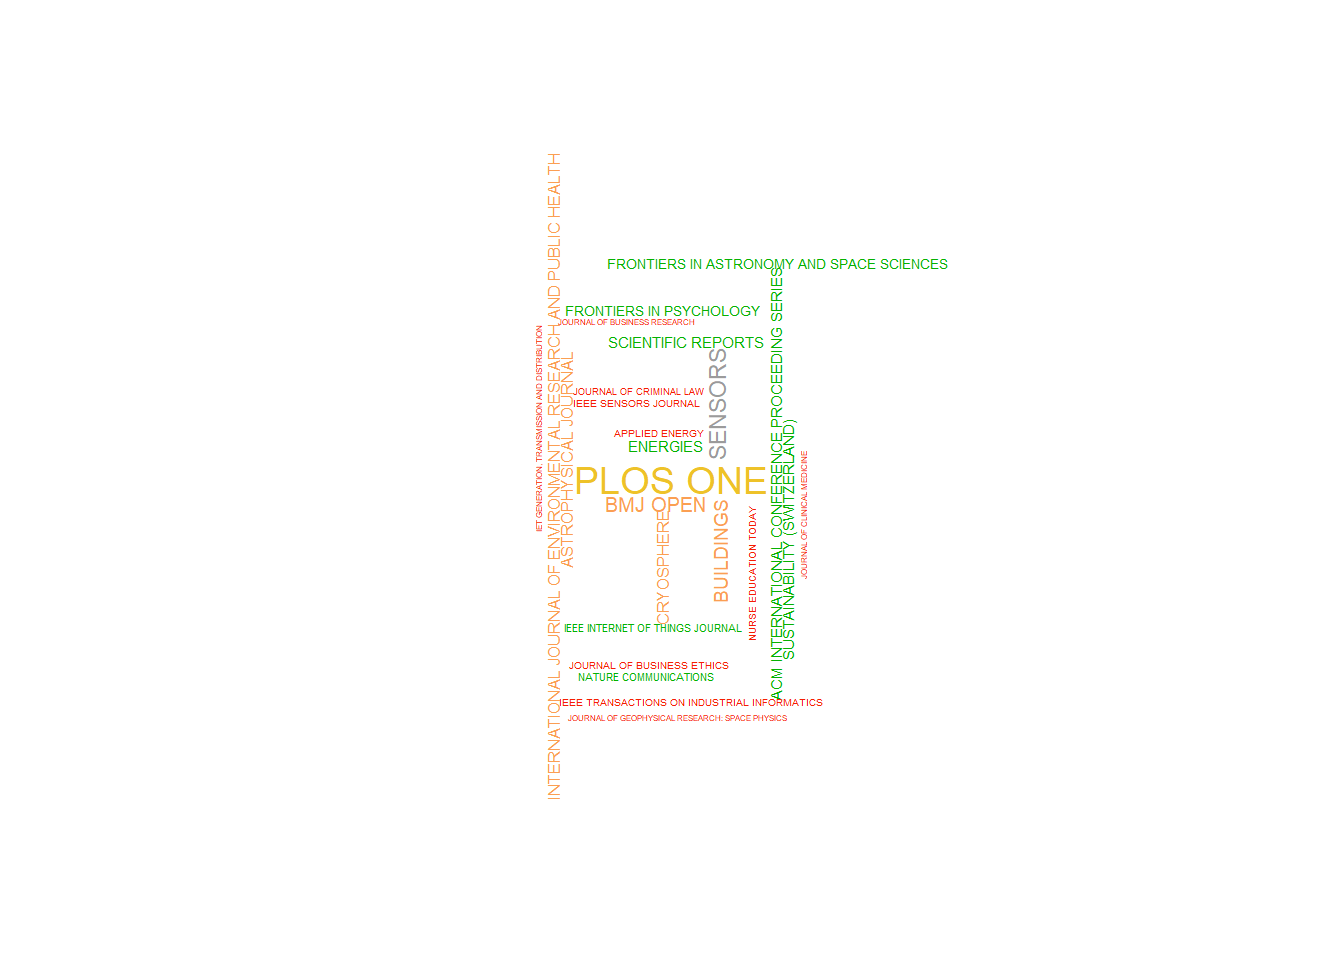
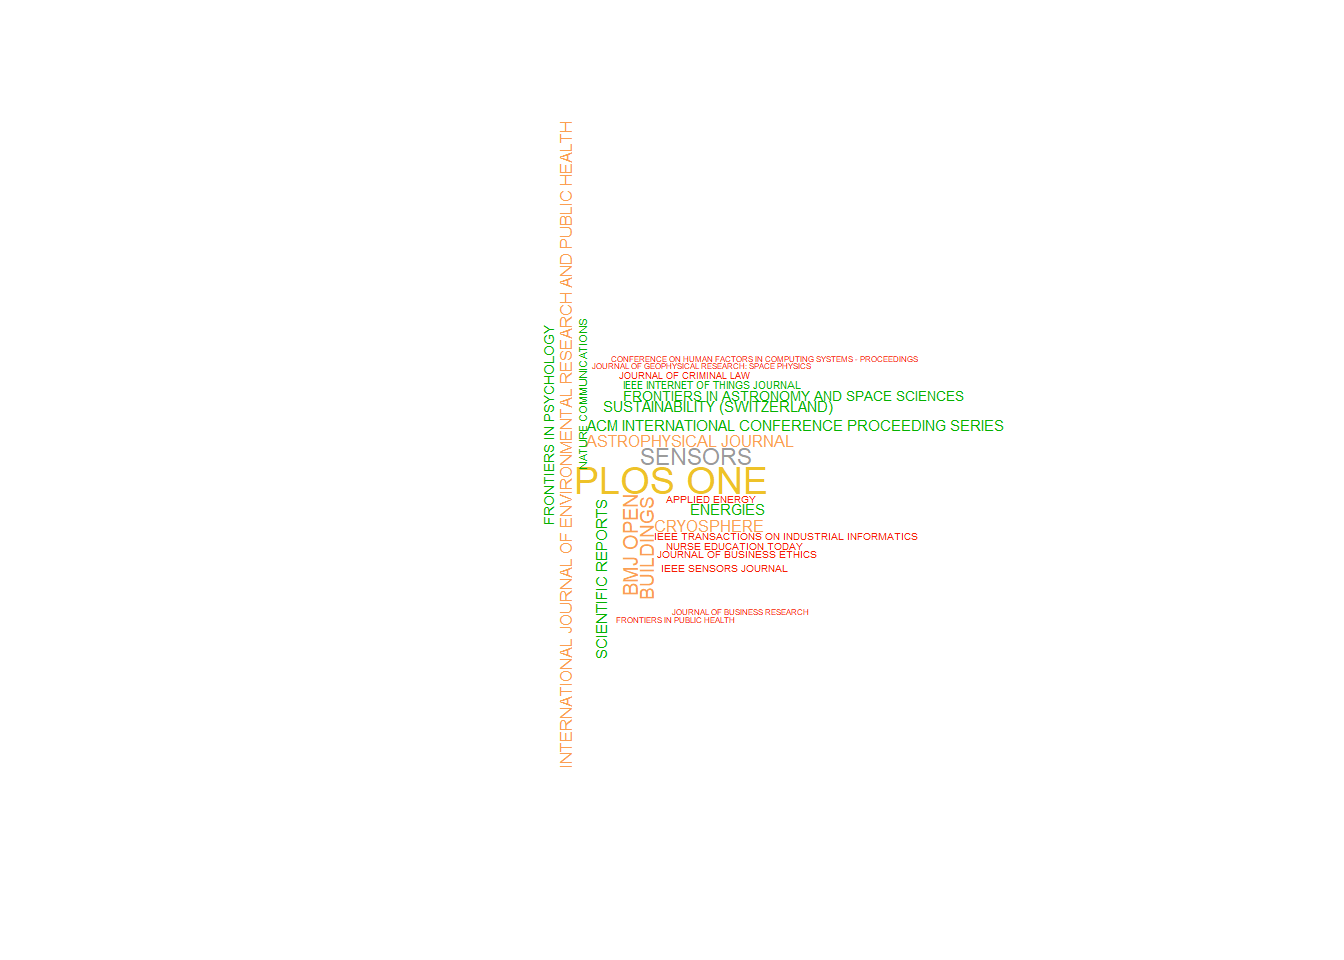
Echos finally fixed?

Changed region(s): [[0.375, 0.1562, 0.75, 0.8125]]

diff --git a/docs/Description.html b/docs/Description.html
@@ -22,69 +22,6 @@ ul.task-list li input[type="checkbox"] {
   margin: 0 0.8em 0.2em -1.6em;
   vertical-align: middle;
 }
-pre > code.sourceCode { white-space: pre; position: relative; }
-pre > code.sourceCode > span { display: inline-block; line-height: 1.25; }
-pre > code.sourceCode > span:empty { height: 1.2em; }
-.sourceCode { overflow: visible; }
-code.sourceCode > span { color: inherit; text-decoration: inherit; }
-div.sourceCode { margin: 1em 0; }
-pre.sourceCode { margin: 0; }
-@media screen {
-div.sourceCode { overflow: auto; }
-}
-@media print {
-pre > code.sourceCode { white-space: pre-wrap; }
-pre > code.sourceCode > span { text-indent: -5em; padding-left: 5em; }
-}
-pre.numberSource code
-  { counter-reset: source-line 0; }
-pre.numberSource code > span
-  { position: relative; left: -4em; counter-increment: source-line; }
-pre.numberSource code > span > a:first-child::before
-  { content: counter(source-line);
-    position: relative; left: -1em; text-align: right; vertical-align: baseline;
-    border: none; display: inline-block;
-    -webkit-touch-callout: none; -webkit-user-select: none;
-    -khtml-user-select: none; -moz-user-select: none;
-    -ms-user-select: none; user-select: none;
-    padding: 0 4px; width: 4em;
-    color: #aaaaaa;
-  }
-pre.numberSource { margin-left: 3em; border-left: 1px solid #aaaaaa;  padding-left: 4px; }
-div.sourceCode
-  {   }
-@media screen {
-pre > code.sourceCode > span > a:first-child::before { text-decoration: underline; }
-}
-code span.al { color: #ff0000; font-weight: bold; } /* Alert */
-code span.an { color: #60a0b0; font-weight: bold; font-style: italic; } /* Annotation */
-code span.at { color: #7d9029; } /* Attribute */
-code span.bn { color: #40a070; } /* BaseN */
-code span.bu { color: #008000; } /* BuiltIn */
-code span.cf { color: #007020; font-weight: bold; } /* ControlFlow */
-code span.ch { color: #4070a0; } /* Char */
-code span.cn { color: #880000; } /* Constant */
-code span.co { color: #60a0b0; font-style: italic; } /* Comment */
-code span.cv { color: #60a0b0; font-weight: bold; font-style: italic; } /* CommentVar */
-code span.do { color: #ba2121; font-style: italic; } /* Documentation */
-code span.dt { color: #902000; } /* DataType */
-code span.dv { color: #40a070; } /* DecVal */
-code span.er { color: #ff0000; font-weight: bold; } /* Error */
-code span.ex { } /* Extension */
-code span.fl { color: #40a070; } /* Float */
-code span.fu { color: #06287e; } /* Function */
-code span.im { color: #008000; font-weight: bold; } /* Import */
-code span.in { color: #60a0b0; font-weight: bold; font-style: italic; } /* Information */
-code span.kw { color: #007020; font-weight: bold; } /* Keyword */
-code span.op { color: #666666; } /* Operator */
-code span.ot { color: #007020; } /* Other */
-code span.pp { color: #bc7a00; } /* Preprocessor */
-code span.sc { color: #4070a0; } /* SpecialChar */
-code span.ss { color: #bb6688; } /* SpecialString */
-code span.st { color: #4070a0; } /* String */
-code span.va { color: #19177c; } /* Variable */
-code span.vs { color: #4070a0; } /* VerbatimString */
-code span.wa { color: #60a0b0; font-weight: bold; font-style: italic; } /* Warning */
 </style>
 
 
@@ -426,7 +363,7 @@ code span.wa { color: #60a0b0; font-weight: bold; font-style: italic; } /* Warni
 <p>This project has looked into several repositories of bilbiometric data from Scopus, Web of science, OSF, PURE and PLOS, to consider open science practices across Northumbria University.</p>
 <p>In terms of total publications classified as Green open access for corresponding Northumbrian authors there are 738 publications, for none green open access there are 218.</p>
 <div class="cell">
-<div class="sourceCode cell-code" id="cb1"><pre class="sourceCode r code-with-copy"><code class="sourceCode r"><span id="cb1-1"><a href="#cb1-1" aria-hidden="true" tabindex="-1"></a>plot_result_green<span class="ot">&lt;-</span><span class="fu">plot</span>(<span class="at">x =</span> result_green, <span class="at">k =</span> <span class="dv">10</span>, <span class="at">pause =</span> F)</span></code><button title="Copy to Clipboard" class="code-copy-button"><i class="bi"></i></button></pre></div>
+
 </div>
 <div class="cell page-columns page-full">
 <div class="cell-output-display page-columns page-full">
@@ -440,10 +377,9 @@ code span.wa { color: #60a0b0; font-weight: bold; font-style: italic; } /* Warni
 </div>
 <p>This shows Northumbrian Authors who publish in journals which allow green open access, <strong>Stuart S</strong> being the most productive (in terms of number of publications).</p>
 <div class="cell">
-<div class="sourceCode cell-code" id="cb2"><pre class="sourceCode r code-with-copy"><code class="sourceCode r"><span id="cb2-1"><a href="#cb2-1" aria-hidden="true" tabindex="-1"></a>plot_result_not_green<span class="ot">&lt;-</span><span class="fu">plot</span>(<span class="at">x =</span> result_not_green, <span class="at">k =</span> <span class="dv">10</span>, <span class="at">pause =</span> F)</span></code><button title="Copy to Clipboard" class="code-copy-button"><i class="bi"></i></button></pre></div>
+
 </div>
 <div class="cell page-columns page-full">
-<div class="sourceCode cell-code" id="cb3"><pre class="sourceCode r code-with-copy"><code class="sourceCode r"><span id="cb3-1"><a href="#cb3-1" aria-hidden="true" tabindex="-1"></a>plot_result_not_green[[<span class="st">"MostProdAuthors"</span>]]</span></code><button title="Copy to Clipboard" class="code-copy-button"><i class="bi"></i></button></pre></div>
 <div class="cell-output-display page-columns page-full">
 <div id="fig-cap-margin2" class="quarto-figure quarto-figure-center anchored page-columns page-full">
 <figure class="figure page-columns page-full">
@@ -466,8 +402,6 @@ code span.wa { color: #60a0b0; font-weight: bold; font-style: italic; } /* Warni
 </div>
 <p>As shown of the top 25 journals for green open access, <strong>PLOS ONE</strong> is the most popular publication with 25 total publications, followed by <strong>Buildings</strong> and <strong>Sensors</strong> with 9 each and then <strong>Journal of Criminal Law</strong> with 7.</p>
 <div class="cell page-columns page-full">
-<div class="sourceCode cell-code" id="cb4"><pre class="sourceCode r code-with-copy"><code class="sourceCode r"><span id="cb4-1"><a href="#cb4-1" aria-hidden="true" tabindex="-1"></a>DF_SO_table_not_green_sorted <span class="ot">&lt;-</span> <span class="fu">as.data.frame</span>(SO_table_not_green_sorted)</span>
-<span id="cb4-2"><a href="#cb4-2" aria-hidden="true" tabindex="-1"></a>wourdcloud_not_green_publications<span class="ot">&lt;-</span> <span class="fu">wordcloud</span>(<span class="at">words =</span> DF_SO_table_not_green_sorted<span class="sc">$</span>Var1, <span class="at">freq =</span> DF_SO_table_not_green_sorted<span class="sc">$</span>Freq, <span class="at">min.freq =</span> <span class="dv">1</span>, <span class="at">max.words=</span><span class="dv">25</span>, <span class="at">random.order=</span><span class="cn">FALSE</span>, <span class="at">scale=</span><span class="fu">c</span>(.<span class="dv">25</span>,<span class="fl">0.25</span>), <span class="at">rot.per=</span><span class="fl">0.35</span>, <span class="at">colors =</span> <span class="fu">piratepal</span>(<span class="st">"xmen"</span>)) <span class="do">##Just the TOP 25</span></span></code><button title="Copy to Clipboard" class="code-copy-button"><i class="bi"></i></button></pre></div>
 <div class="cell-output-display page-columns page-full">
 <div id="fig-cap-margin4" class="quarto-figure quarto-figure-center anchored page-columns page-full">
 <figure class="figure page-columns page-full">
